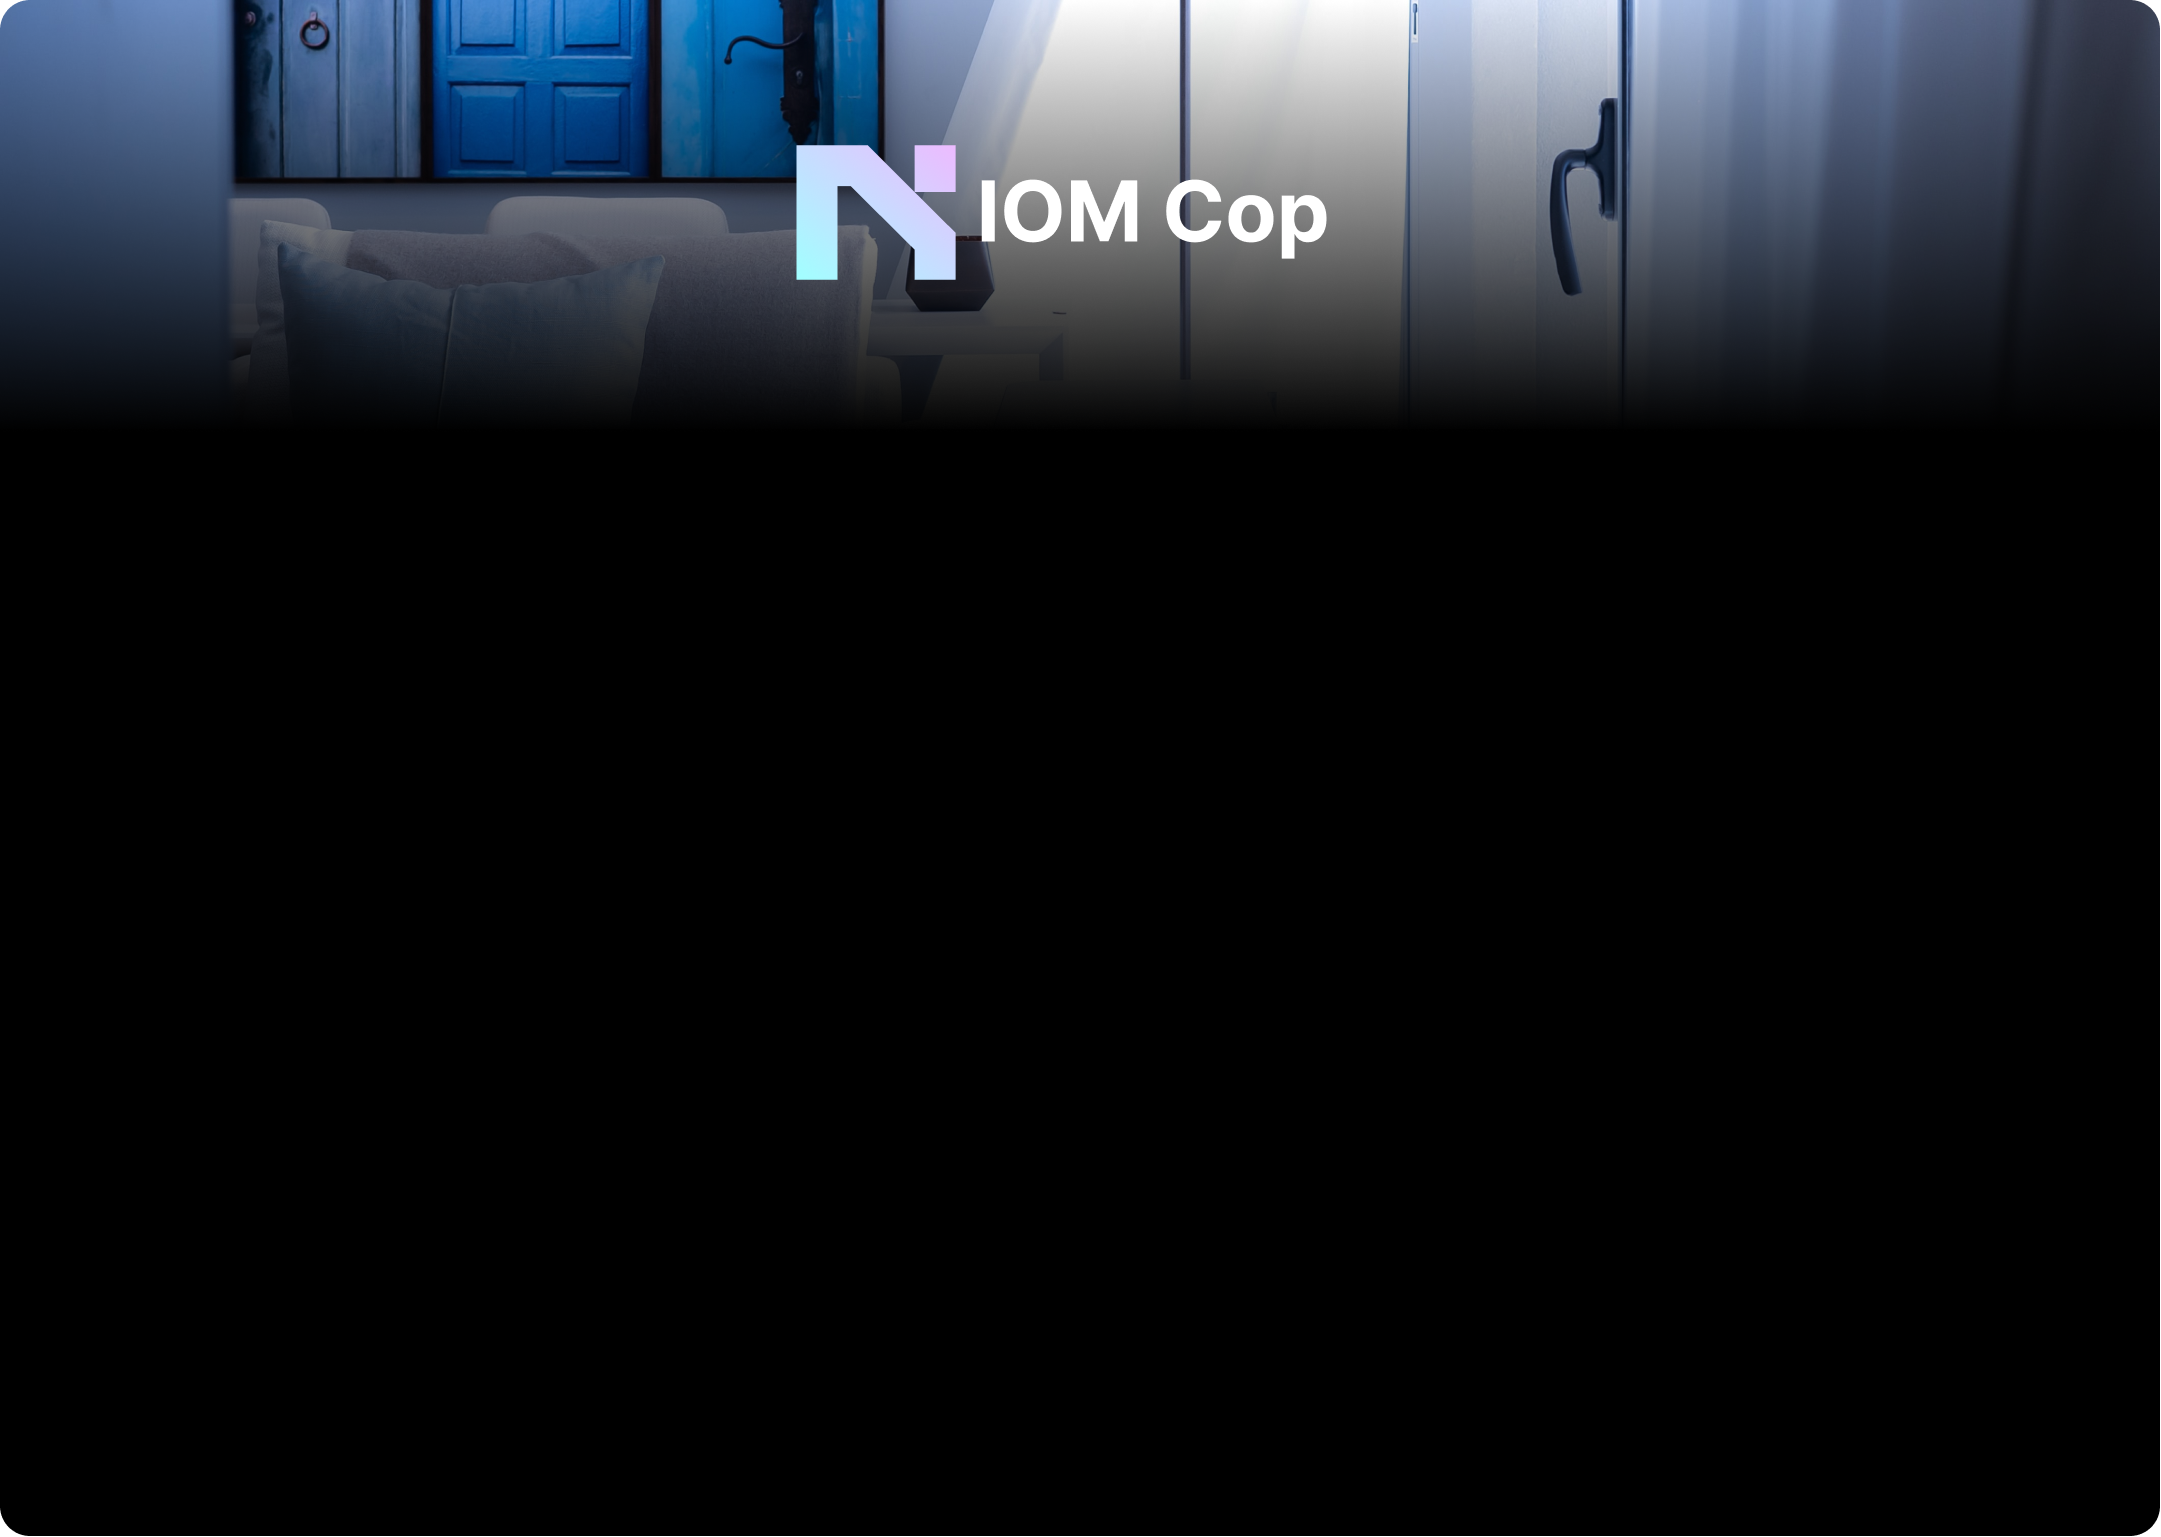
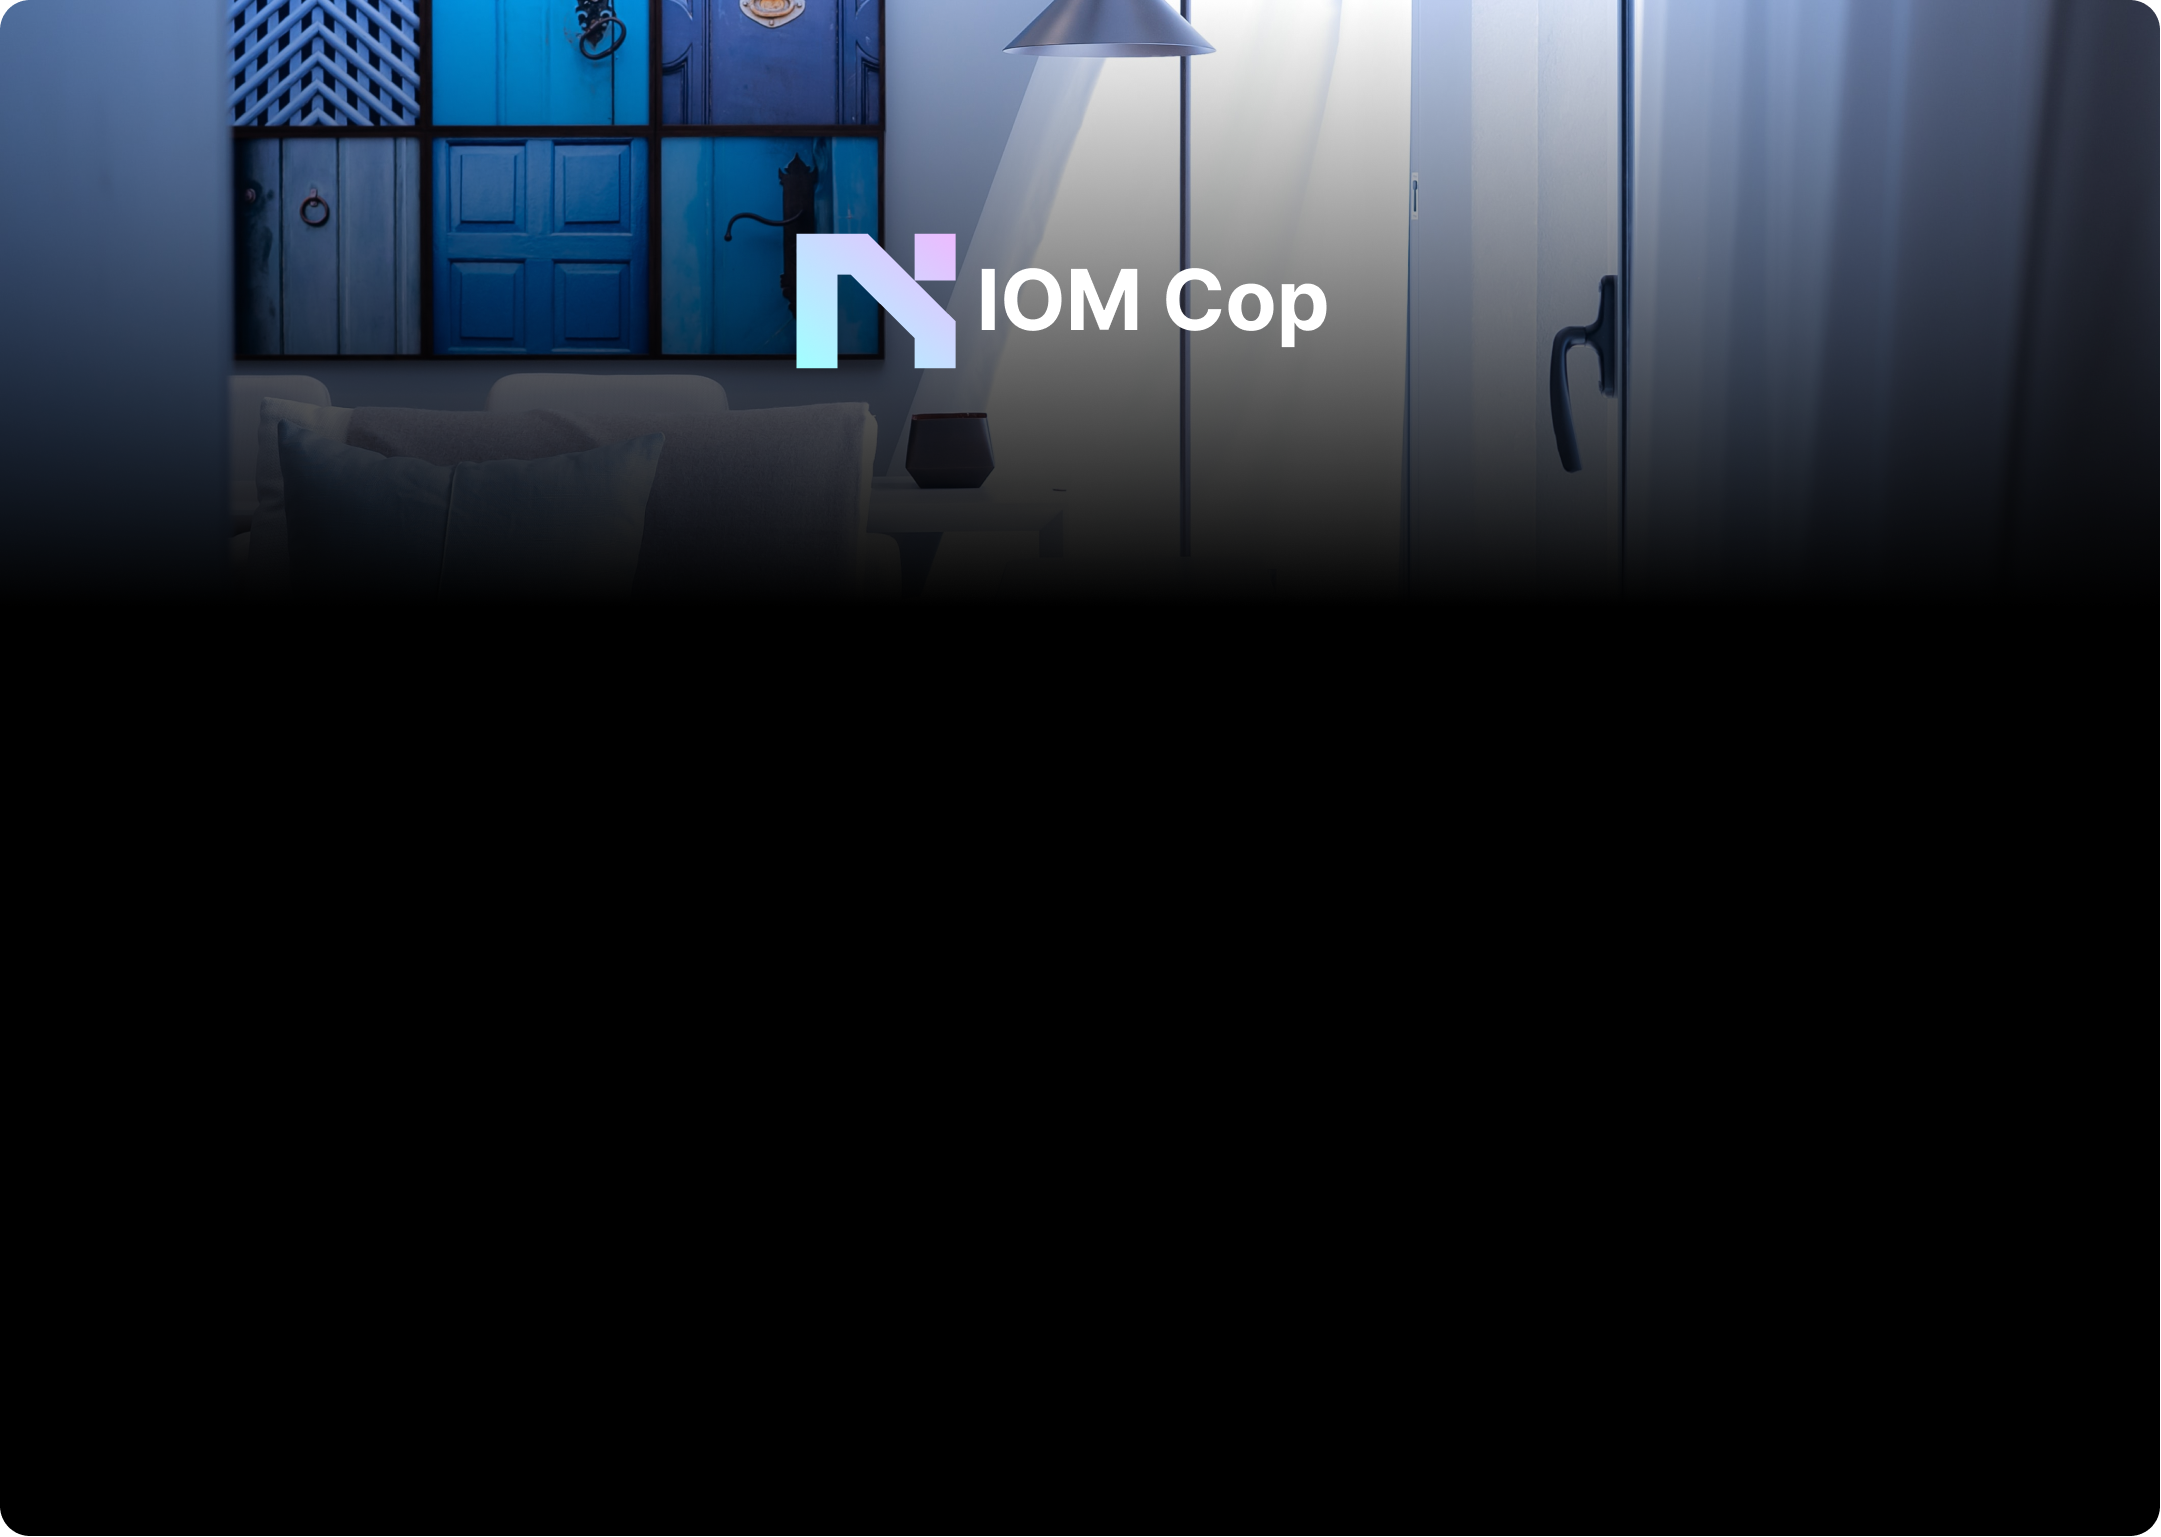
update login UI-UX

Changed region(s): [[0.0, 0.0, 1.0, 0.3748]]

diff --git a/smart-door/pages/general/login.tsx b/smart-door/pages/general/login.tsx
@@ -1,4 +1,4 @@
-// import { Input, Spacer, StyledButton } from "@nextui-org/react";
+import { Text } from "@nextui-org/react";
 import Image from "next/image";
 import { useContext, useEffect, useRef, useState } from "react";
 import AuthContext from "components/context/AuthProvider";
@@ -6,16 +6,23 @@ import bgImage from 'assets/images/bg-img.png';
 import loginStyles from "styles/login.module.scss";
 import EmailIcon from "@/assets/svg/emailIcon";
 import LockIcon from "@/assets/svg/lockIcon";
+import { Modal } from "@nextui-org/react";
 
 type Props = {};
 
 const LoginPage = (props: Props) => {
-  // const [loginEmail, setLoginEmail] = useState("");
-  // const [loginPassword, setLoginPassword] = useState("");
   const emailInput = useRef<HTMLInputElement>(null);
   const passInput = useRef<HTMLInputElement>(null);
 
   const currentUser = useContext(AuthContext)
+
+  const [isShowCreateGuide, setIsShowCreateGuide] = useState(false);
+  const showCreateGuide = () => {
+    setIsShowCreateGuide(true);
+  }
+  const hideCreateGuide = () => {
+    setIsShowCreateGuide(false);
+  }
 
   const handleOnLogin = async () => {
     console.log(emailInput?.current?.value)
@@ -26,7 +33,7 @@ const LoginPage = (props: Props) => {
   useEffect(() => {
     console.log("cccc", currentUser)
   }, [currentUser])
-  
+
   return (
     <div className={loginStyles.container}>
       {/* <div>{globalAuth && `${globalAuth.user.email}`}</div> */}
@@ -45,6 +52,21 @@ const LoginPage = (props: Props) => {
         </label>
 
         <button className={loginStyles.submitBtn} style={{marginTop: "31px"}} onClick={handleOnLogin}>Log In</button>
+
+        <p style={{marginTop: "13px"}}>Don't have account yet?</p>
+
+        <button className={loginStyles.createBtn} onClick={showCreateGuide}>Request an account</button>
+        <Modal closeButton open={isShowCreateGuide} onClose={hideCreateGuide} style={{maxWidth: '85%', margin: '0 auto'}}>
+          <Modal.Header>
+            <Text b size={22} >How to get an account?</Text>
+          </Modal.Header>
+          <Modal.Body>
+            <p style={{textAlign: 'justify'}}>Because of security Policy, new employees need an account to pass the security gate. Please contact an administrator to get an new account.</p>
+          </Modal.Body>
+          <Modal.Footer>
+            <a href="mailto:khangpt3@vng.com.vn" target="_blank" rel="noopener noreferrer" style={{fontWeight: 'bold', fontSize: '14px'}} onClick={hideCreateGuide}>Email Admin</a>
+          </Modal.Footer>
+        </Modal>
       </div>
     </div>
   );

diff --git a/smart-door/styles/login.module.scss b/smart-door/styles/login.module.scss
@@ -10,7 +10,7 @@
 
         display: flex;
         width: 100%;
-        height: 50%;
+        height: 60%;
         flex-direction: column;
         justify-content: center;
         align-items: center;
@@ -58,13 +58,25 @@
             right: 31px;
             top: 17px;
         }
+
+        p {
+            color: white;
+            margin: 0;
+        }
+
+        .createBtn {
+            color: #A1FFFF;
+            text-decoration-line: underline;
+            background-color: transparent;
+            border: none;
+        }
     }
 }
 
 @media only screen and (max-width: 600px) {
     .container {
         background-image: url('../assets/images/phone-bg.png');
-        background-size: 90%;
+        background-size: 100%;
         background-repeat: no-repeat;
     }
 }
